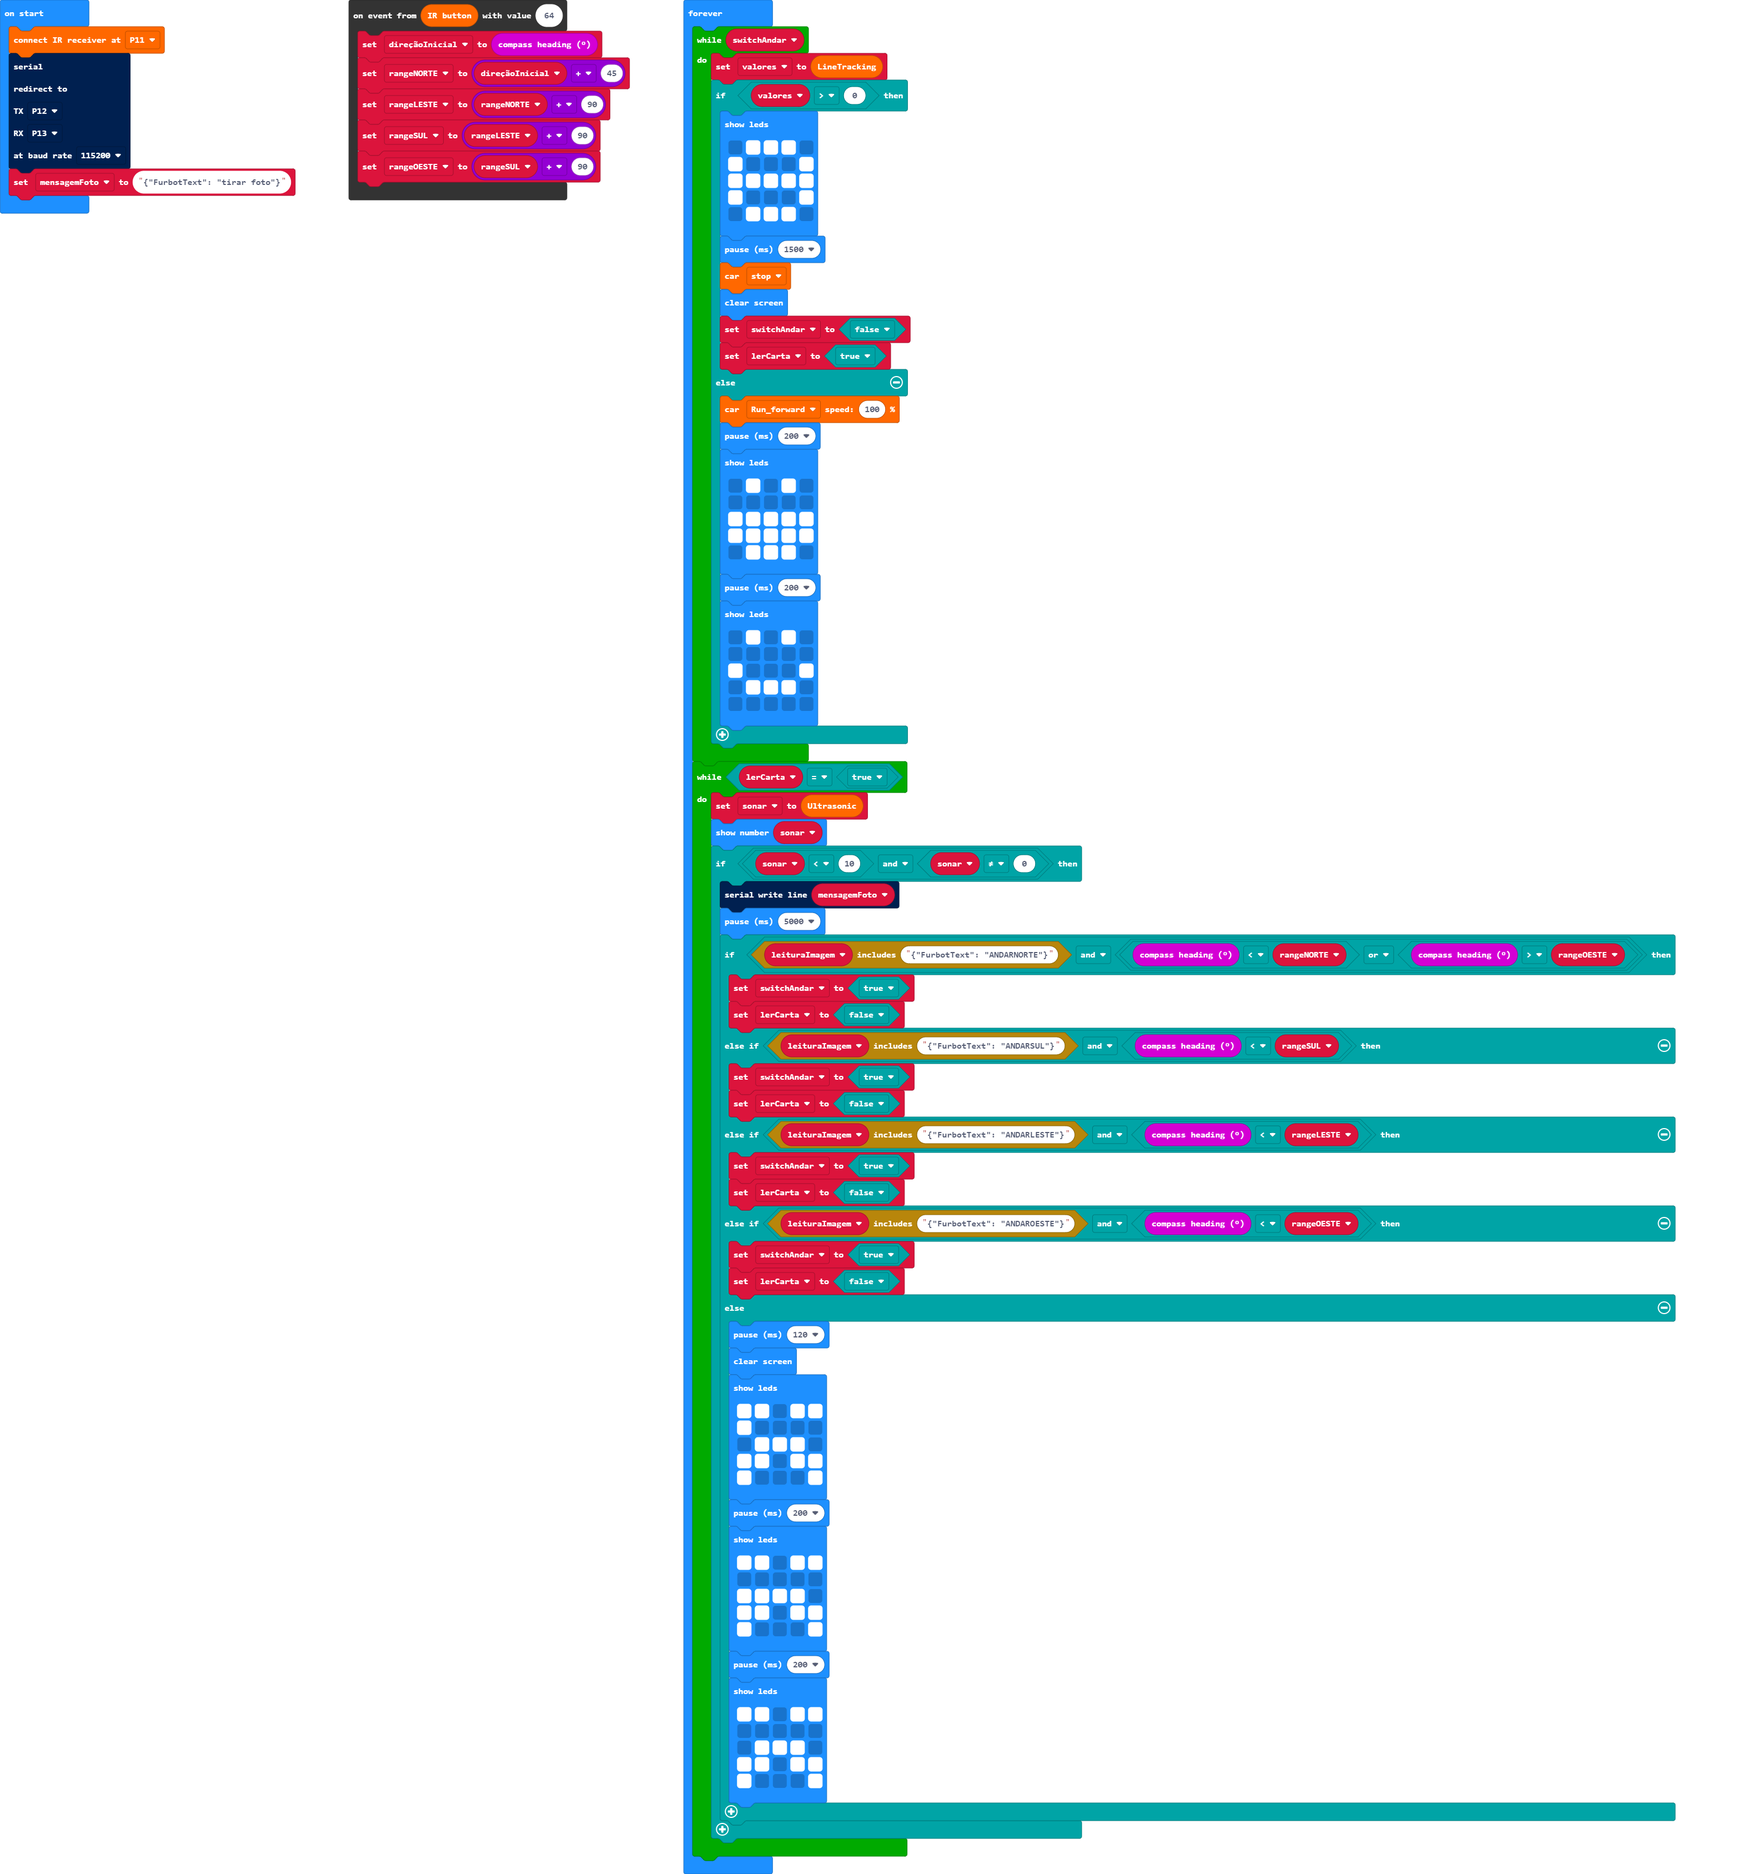
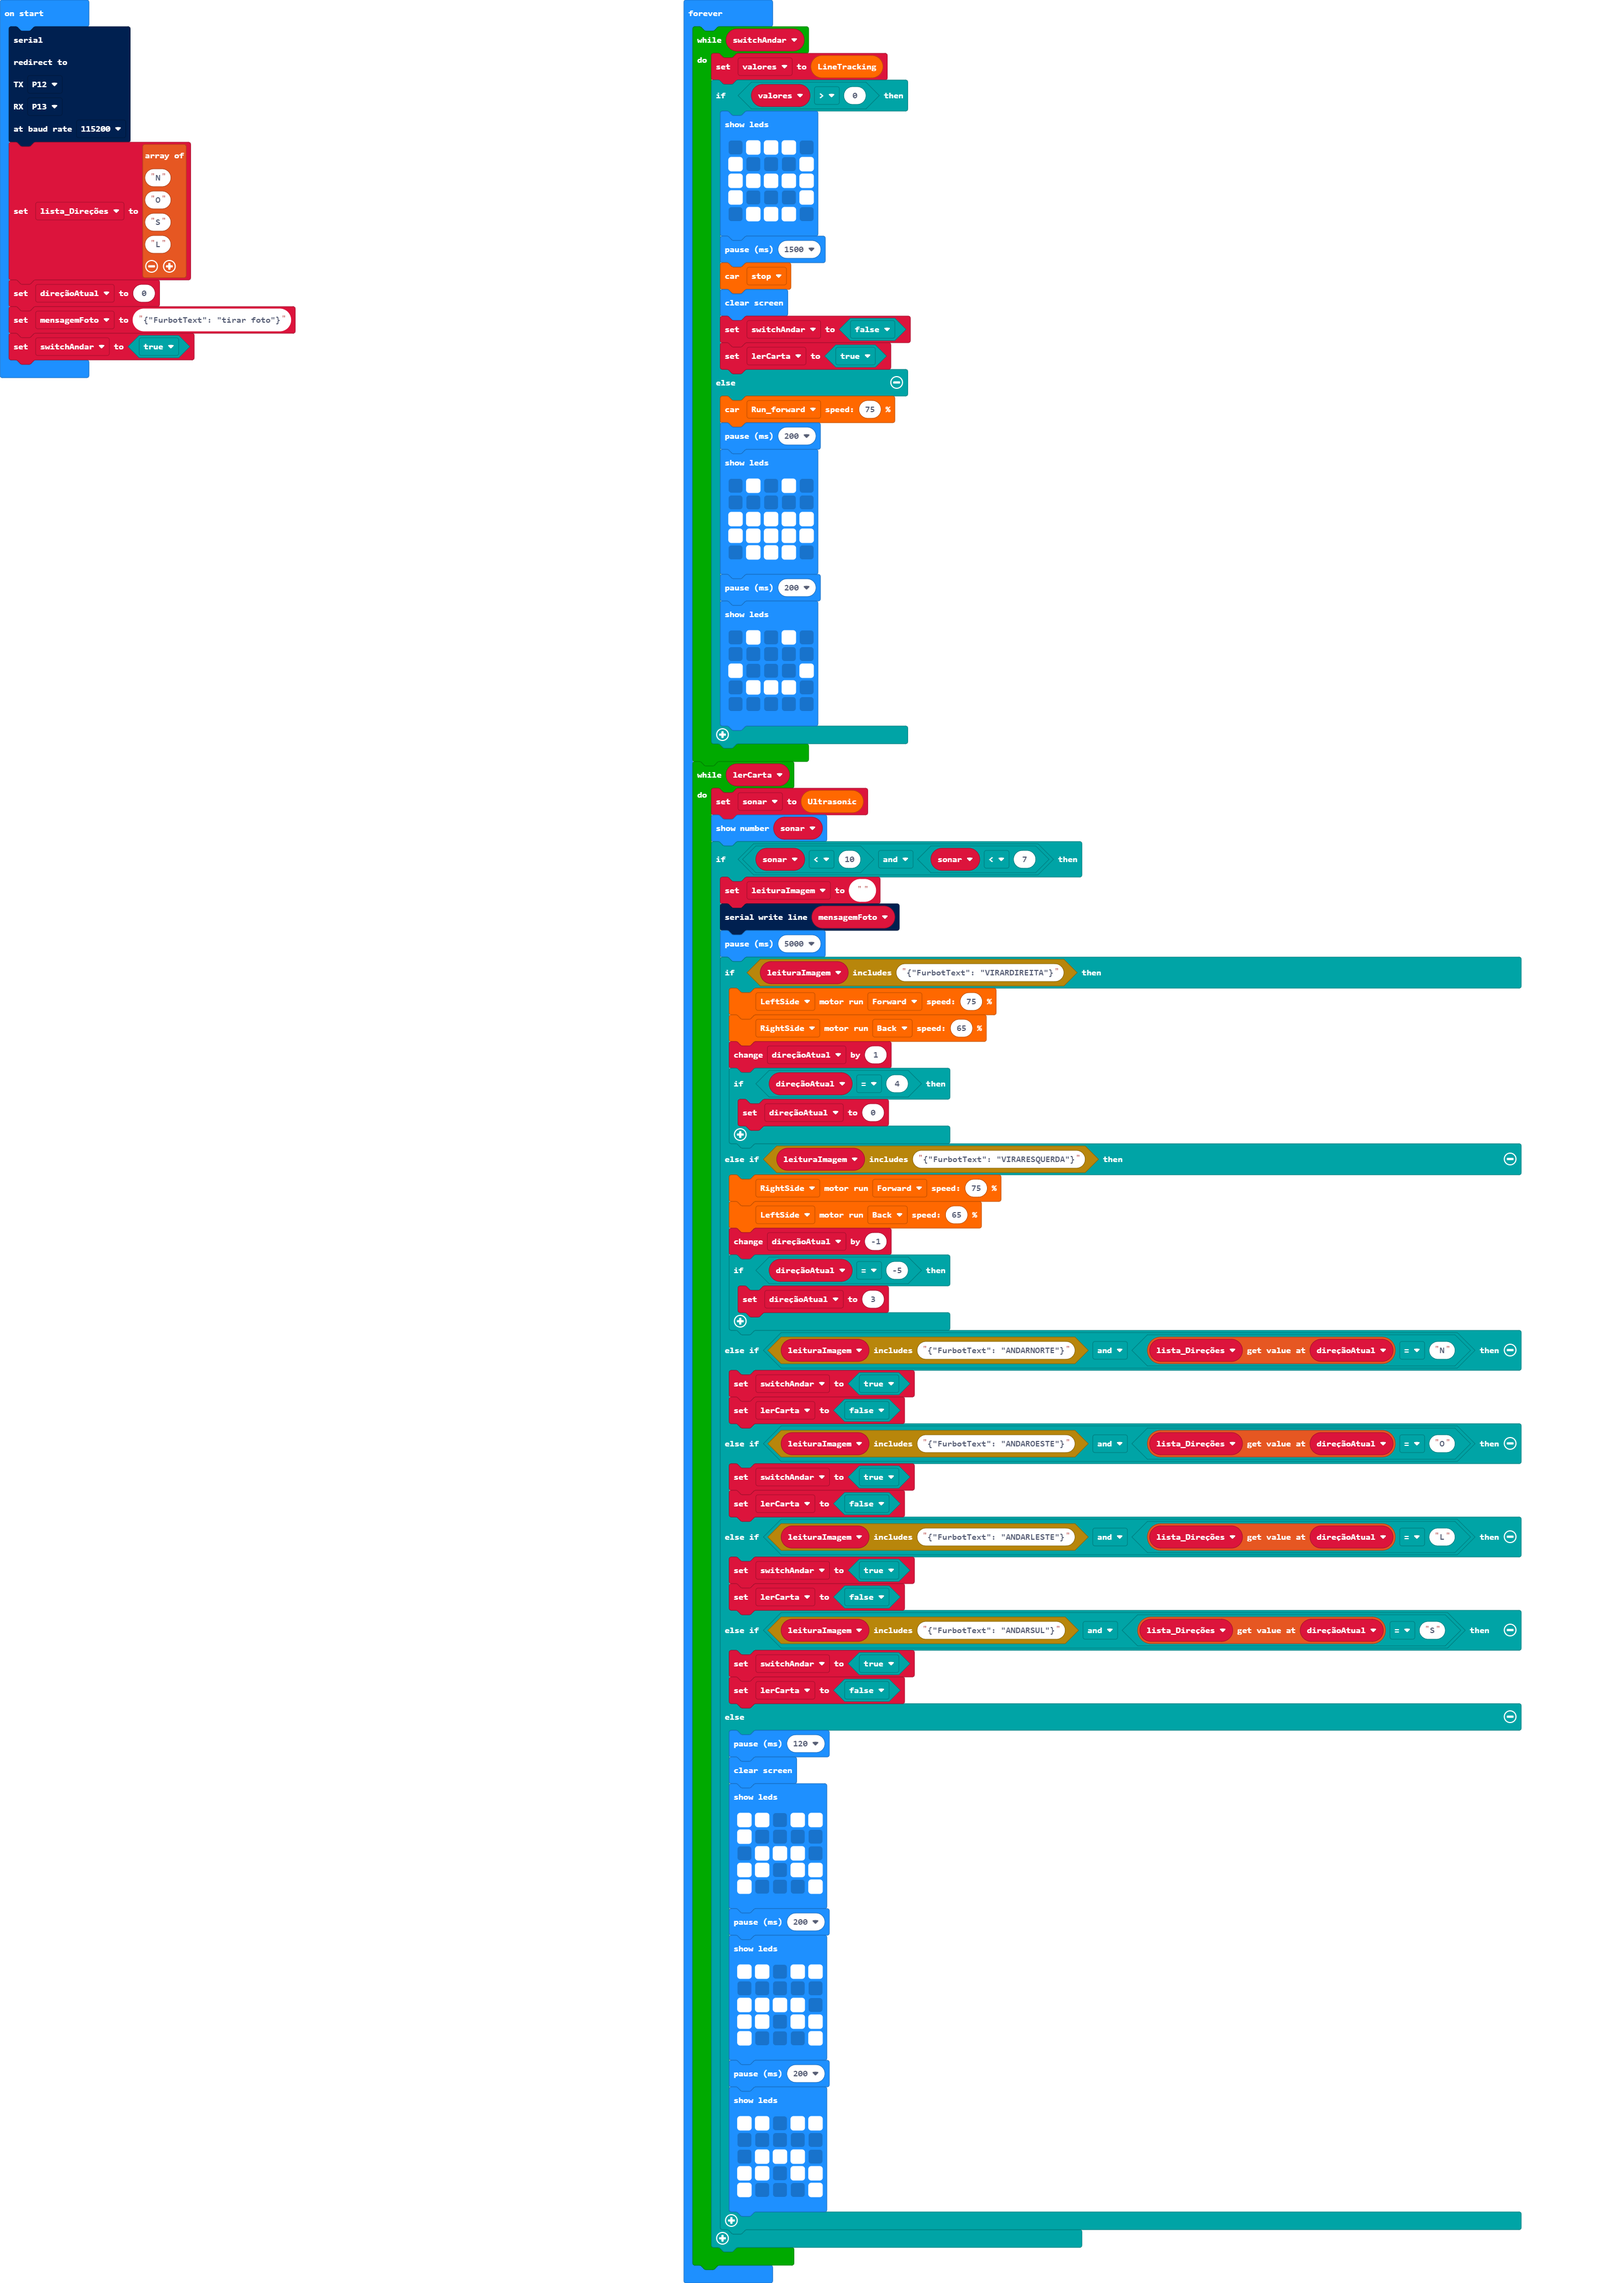
Tirei o infravermelho e substitui por um array com Norte, Sul, Leste e Oeste.

Changed region(s): [[0.1865, 0.0, 0.9637, 1.0], [0.0, 0.0, 0.1865, 0.1867]]

diff --git a/main.ts b/main.ts
@@ -1,26 +1,21 @@
-control.onEvent(irRemote.returnIrButton(), 64, function () {
-    direçãoInicial = input.compassHeading()
-    rangeNORTE = direçãoInicial + 45
-    rangeLESTE = rangeNORTE + 90
-    rangeSUL = rangeLESTE + 90
-    rangeOESTE = rangeSUL + 90
-})
+let leituraImagem = ""
 let sonar = 0
 let lerCarta = false
 let valores = 0
-let switchAndar = false
-let rangeOESTE = 0
-let rangeSUL = 0
-let rangeLESTE = 0
-let rangeNORTE = 0
-let direçãoInicial = 0
-irRemote.connectInfrared(DigitalPin.P11)
 serial.redirect(
 SerialPin.P12,
 SerialPin.P13,
 BaudRate.BaudRate115200
 )
+let lista_Direções = [
+"N",
+"O",
+"S",
+"L"
+]
+let direçãoAtual = 0
 let mensagemFoto = "{\"FurbotText\": \"tirar foto\"}"
+let switchAndar = true
 basic.forever(function () {
     while (switchAndar) {
         valores = turtleBit.LineTracking()
@@ -38,7 +33,7 @@ basic.forever(function () {
             switchAndar = false
             lerCarta = true
         } else {
-            turtleBit.run(DIR.Run_forward, 100)
+            turtleBit.run(DIR.Run_forward, 75)
             basic.pause(200)
             basic.showLeds(`
                 . # . # .
@@ -57,23 +52,37 @@ basic.forever(function () {
                 `)
         }
     }
-    while (lerCarta == true) {
+    while (lerCarta) {
         sonar = turtleBit.ultra()
         basic.showNumber(sonar)
-        if (sonar < 10 && sonar != 0) {
-            let leituraImagem = ""
+        if (sonar < 10 && sonar < 7) {
+            leituraImagem = ""
             serial.writeLine(mensagemFoto)
             basic.pause(5000)
-            if (leituraImagem.includes("{\"FurbotText\": \"ANDARNORTE\"}") && (input.compassHeading() < rangeNORTE || input.compassHeading() > rangeOESTE)) {
+            if (leituraImagem.includes("{\"FurbotText\": \"VIRARDIREITA\"}")) {
+                turtleBit.Motor(LR.LeftSide, MD.Forward, 75)
+                turtleBit.Motor(LR.RightSide, MD.Back, 65)
+                direçãoAtual += 1
+                if (direçãoAtual == 4) {
+                    direçãoAtual = 0
+                }
+            } else if (leituraImagem.includes("{\"FurbotText\": \"VIRARESQUERDA\"}")) {
+                turtleBit.Motor(LR.RightSide, MD.Forward, 75)
+                turtleBit.Motor(LR.LeftSide, MD.Back, 65)
+                direçãoAtual += -1
+                if (direçãoAtual == -5) {
+                    direçãoAtual = 3
+                }
+            } else if (leituraImagem.includes("{\"FurbotText\": \"ANDARNORTE\"}") && lista_Direções[direçãoAtual] == "N") {
                 switchAndar = true
                 lerCarta = false
-            } else if (leituraImagem.includes("{\"FurbotText\": \"ANDARSUL\"}") && input.compassHeading() < rangeSUL) {
+            } else if (leituraImagem.includes("{\"FurbotText\": \"ANDAROESTE\"}") && lista_Direções[direçãoAtual] == "O") {
                 switchAndar = true
                 lerCarta = false
-            } else if (leituraImagem.includes("{\"FurbotText\": \"ANDARLESTE\"}") && input.compassHeading() < rangeLESTE) {
+            } else if (leituraImagem.includes("{\"FurbotText\": \"ANDARLESTE\"}") && lista_Direções[direçãoAtual] == "L") {
                 switchAndar = true
                 lerCarta = false
-            } else if (leituraImagem.includes("{\"FurbotText\": \"ANDAROESTE\"}") && input.compassHeading() < rangeOESTE) {
+            } else if (leituraImagem.includes("{\"FurbotText\": \"ANDARSUL\"}") && lista_Direções[direçãoAtual] == "S") {
                 switchAndar = true
                 lerCarta = false
             } else {

diff --git a/main.py b/main.py
@@ -7,10 +7,10 @@ def on_on_event():
     rangeOESTE = rangeSUL + 90
 control.on_event(irRemote.return_ir_button(), 64, on_on_event)
 
-leituraImagem = ""
 sonar = 0
 lerCarta = False
 valores = 0
+switchAndar = False
 rangeOESTE = 0
 rangeSUL = 0
 rangeLESTE = 0
@@ -19,10 +19,9 @@ direçãoInicial = 0
 irRemote.connect_infrared(DigitalPin.P11)
 serial.redirect(SerialPin.P12, SerialPin.P13, BaudRate.BAUD_RATE115200)
 mensagemFoto = "{\"FurbotText\": \"tirar foto\"}"
-switchAndar = False
 
 def on_forever():
-    global valores, switchAndar, lerCarta, sonar, leituraImagem
+    global valores, switchAndar, lerCarta, sonar
     while switchAndar:
         valores = turtleBit.line_tracking()
         if valores > 0:
@@ -43,7 +42,7 @@ def on_forever():
             basic.pause(200)
             basic.show_leds("""
                 . # . # .
-                                # . . . #
+                                . . . . .
                                 # # # # #
                                 # # # # #
                                 . # # # .
@@ -60,11 +59,10 @@ def on_forever():
         sonar = turtleBit.ultra()
         basic.show_number(sonar)
         if sonar < 10 and sonar != 0:
+            leituraImagem = ""
             serial.write_line(mensagemFoto)
             basic.pause(5000)
-
-
-            if leituraImagem.includes("{\"FurbotText\": \"ANDARNORTE\"}") and input.compass_heading() < rangeNORTE:
+            if leituraImagem.includes("{\"FurbotText\": \"ANDARNORTE\"}") and (input.compass_heading() < rangeNORTE or input.compass_heading() > rangeOESTE):
                 switchAndar = True
                 lerCarta = False
             elif leituraImagem.includes("{\"FurbotText\": \"ANDARSUL\"}") and input.compass_heading() < rangeSUL:
